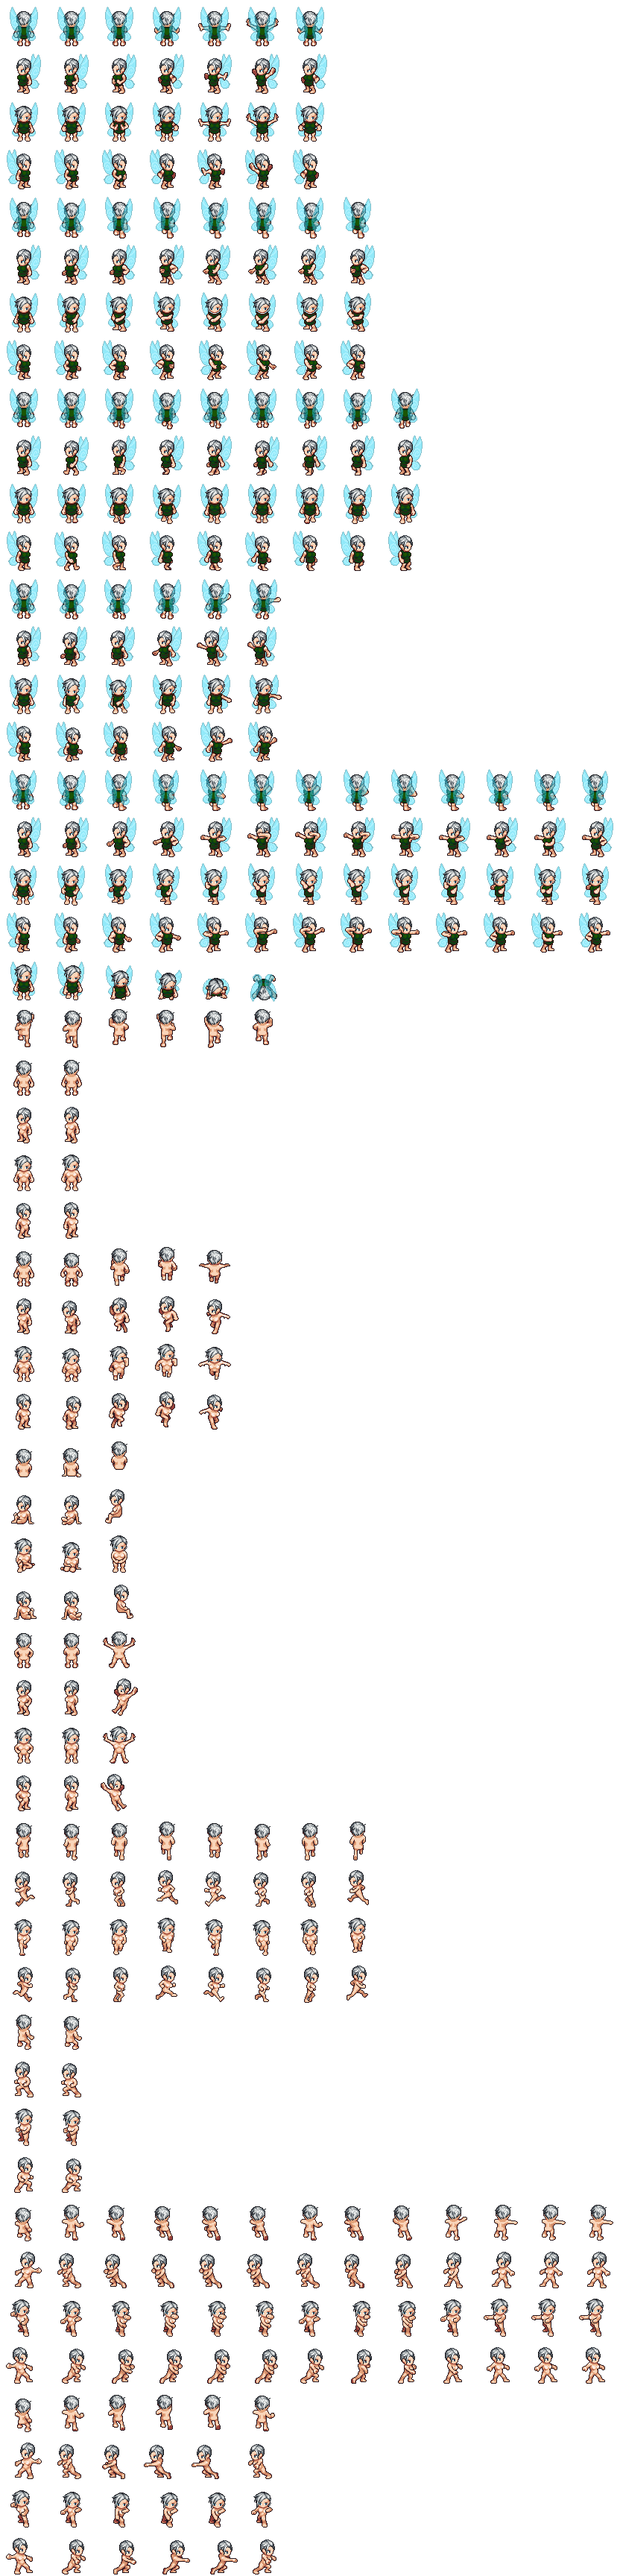
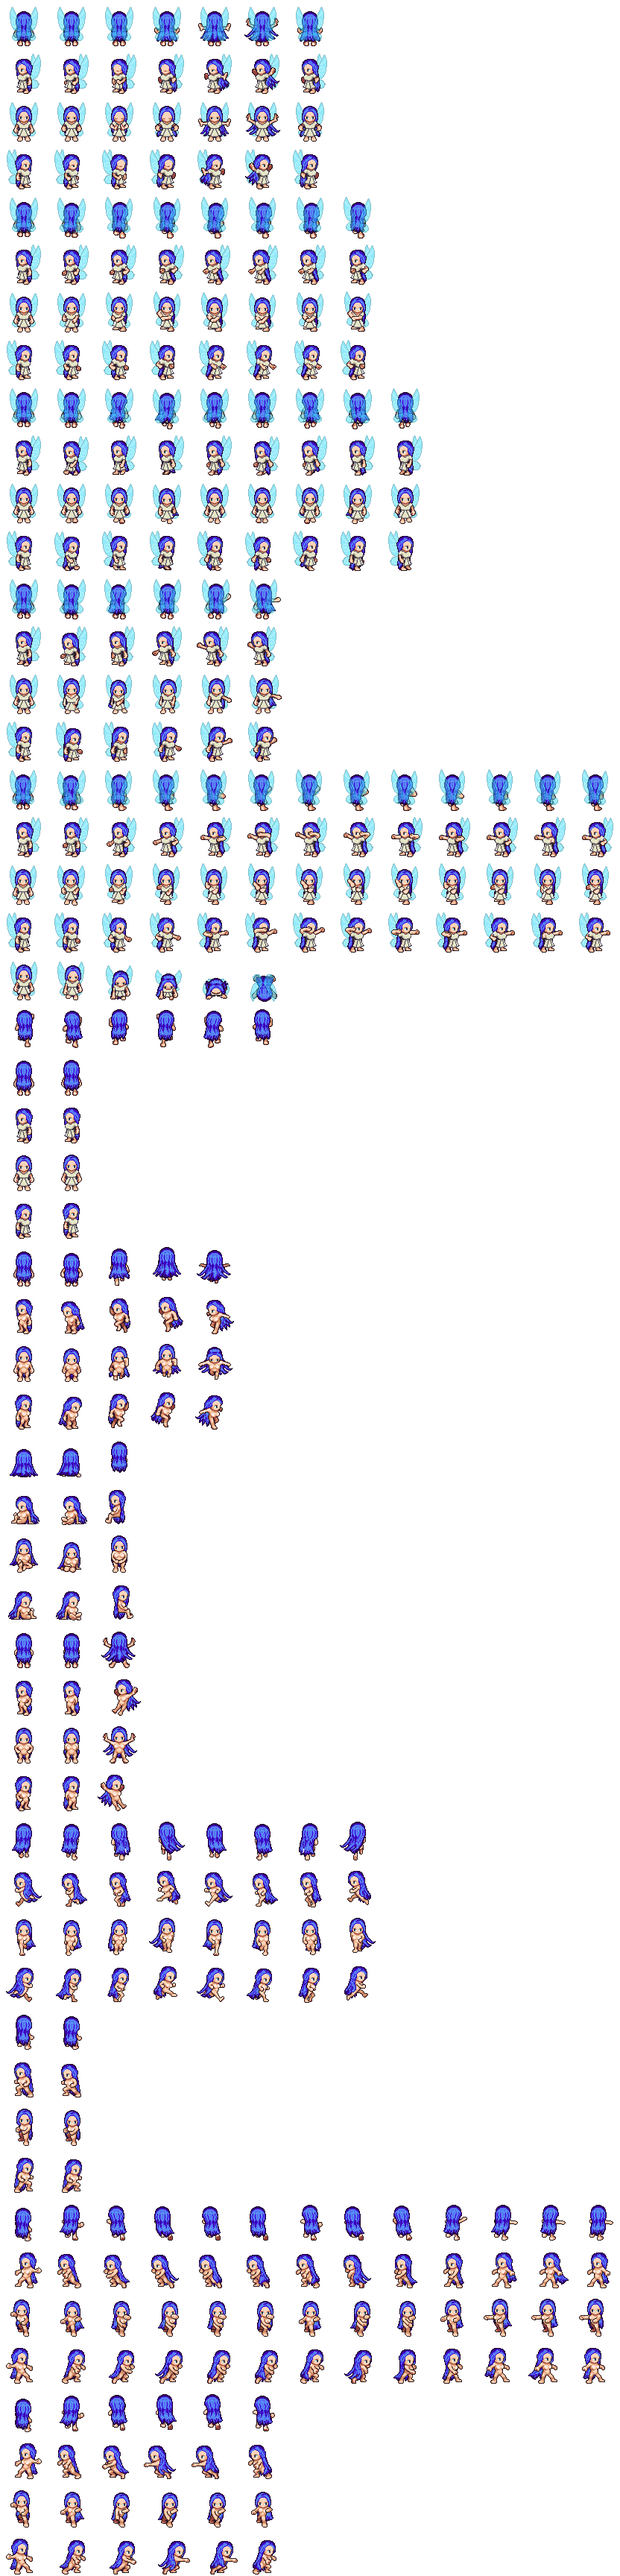
feat(art): restyle the mist fairy as an adult with long violet hair and a sash dress

diff --git a/tasks/reports/arte-monstros-fase-3.md b/tasks/reports/arte-monstros-fase-3.md
@@ -18,10 +18,10 @@ Cada link abre o [gerador Universal LPC](https://liberatedpixelcup.github.io/Uni
 | Sacerdote Morto | `dead_priest.png` | esqueleto (corpo feminino, o único com manto), manto preto, capuz preto, cajado simples | [abrir](https://liberatedpixelcup.github.io/Universal-LPC-Spritesheet-Character-Generator/#sex=female&body=Skeleton_white&head=Skeleton_white&clothes=Robe_black&hat=Hood_black&weapon=Simple_staff_simple) |
 | Vigia Sem Rosto (chefe) | `faceless_watcher.png` | esqueleto cinza, manto cinza-escuro, capuz carvão, máscara lisa branca (o "rosto vazio"), capa rasgada vinho | [abrir](https://liberatedpixelcup.github.io/Universal-LPC-Spritesheet-Character-Generator/#sex=female&body=Skeleton_gray&head=Skeleton_gray&clothes=Robe_dark%20gray&hat=Hood_charcoal&facial_mask=Plain_Mask_white&cape=Tattered_maroon) |
 | Sombra | `shade.png` | corpo preto, manto e capuz pretos, capa rasgada preta | [abrir](https://liberatedpixelcup.github.io/Universal-LPC-Spritesheet-Character-Generator/#sex=female&body=Body_Color_black&head=Human_Female_black&clothes=Robe_black&hat=Hood_black&cape=Tattered_black) |
-| Fada da Névoa | `mist_fairy.png` | corpo feminino claro, cabeça pequena, túnica verde-floresta, cabelo curto branco, asas de fada transparentes | [abrir](https://liberatedpixelcup.github.io/Universal-LPC-Spritesheet-Character-Generator/#sex=female&body=Body_Color_light&head=Human_Female_Small_light&clothes=Tunic_forest&hair=Pixie_white&wings=Transparent_Pixie_Wings_pixie) |
+| Fada da Névoa | `mist_fairy.png` | corpo feminino claro, cabeça feminina adulta, cabelo *XLong Wavy* violeta, vestido com faixa (*sash dress*) branco, asas de fada transparentes (versão "Violeta", escolhida pelo designer em 2026-11-06) | [abrir](https://liberatedpixelcup.github.io/Universal-LPC-Spritesheet-Character-Generator/#sex=female&body=Body_Color_light&head=Human_Female_light&hair=XLong_Wavy_violet&dress=Sash_dress_white&wings=Transparent_Pixie_Wings_pixie) |
 
 **Escolhas e alternativas testadas:**
-- **Fada:** o corpo infantil (menor, mais "fada") perde a roupa no golpe e no conjurar, porque essas peças só existem para o andar. Ficou o corpo adulto com cabeça pequena; o tamanho de fada vem do raio e do `tint`.
+- **Fada:** o corpo infantil perde a roupa no golpe e no conjurar. A primeira montagem (corpo adulto, cabeça pequena, cabelo curto) parecia uma menina; o designer pediu uma Fada mais mulher, e escolheu entre nove variações a cabeça adulta com cabelo *XLong Wavy* violeta e vestido com faixa branco. Todas as roupas testadas (túnica, regata, blusa, vestidos, quimono) aparecem no conjurar, no golpe e na morte.
 - **Sacerdote:** o cajado retorcido some no conjurar; o cajado simples (CC0) aparece no andar, no conjurar e na estocada.
 - **Sombra:** com o manto, ela fica parecida com o Sacerdote na folha. No jogo, o `tint` escuro e semitransparente a separa. Se o designer preferir, ela pode ser outro corpo (zumbi, por exemplo).
 - **Vigia:** a capa vinho e a máscara branca o separam do Sacerdote. Como chefe, ele usa escala ×2, como a Matriarca.
@@ -82,7 +82,7 @@ Depois da exportação, a variante `preview_fase3` do `sprites.json` troca monst
 
 ## Licenças
 
-Conferido nos CSVs exportados: as peças têm OGA-BY, CC-BY ou CC0 como opção, **exceto** o manto (*robe*, só CC-BY-SA 3.0 ou GPL; usado no Sacerdote, no Vigia e na Sombra), o escudo *kite* do Cavaleiro e o cabelo da Fada. As folhas com essas peças ficam em CC-BY-SA, o que não afeta o resto do jogo (`design/art-direction-v0.1.md`, licenças). Os créditos de cada folha estão em `client/assets/art/characters/<monstro>-credits.txt` e em `CREDITS.md`.
+Conferido nos CSVs exportados: as peças têm OGA-BY, CC-BY ou CC0 como opção, **exceto** o manto (*robe*, só CC-BY-SA 3.0 ou GPL; usado no Sacerdote, no Vigia e na Sombra), o escudo *kite* do Cavaleiro e o vestido com faixa da Fada (o cabelo *XLong Wavy* é OGA-BY 3.0). As folhas com essas peças ficam em CC-BY-SA, o que não afeta o resto do jogo (`design/art-direction-v0.1.md`, licenças). Os créditos de cada folha estão em `client/assets/art/characters/<monstro>-credits.txt` e em `CREDITS.md`.
 
 ## No jogo
 
@@ -91,7 +91,7 @@ As folhas do Cavaleiro, do Sacerdote, do Vigia e da Sombra estão ligadas no `sp
 | Encontro | Mostra | Captura |
 |---|---|---|
 | `encounter.wolf_and_bandit` | Cavaleiro Espectral (no lugar do Salteador), azulado e translúcido | ![](arte-monstros-fase-3/jogo-wolf_and_bandit.png) |
-| `encounter.wolf_and_bandit` (2026-11-06) | Fada da Névoa (no lugar do Lobo), clara e translúcida, ao lado do Cavaleiro | ![](arte-monstros-fase-3/jogo-wolf_and_bandit-fada.png) |
+| `encounter.wolf_and_bandit` (2026-11-06) | Fada da Névoa "Violeta" (no lugar do Lobo), clara e translúcida, ao lado do Cavaleiro | ![](arte-monstros-fase-3/jogo-wolf_and_bandit-fada.png) |
 | `encounter.skeleton_guard` | Sacerdote Morto (no lugar do Guarda) | ![](arte-monstros-fase-3/jogo-skeleton_guard.png) |
 | `encounter.four_rats` | Sombras (no lugar dos ratos), escuras e translúcidas | ![](arte-monstros-fase-3/jogo-four_rats.png) |
 | `encounter.forest_matriarch` | Vigia Sem Rosto em ×2 (no lugar da Matriarca) | ![](arte-monstros-fase-3/jogo-forest_matriarch.png) |
@@ -105,7 +105,7 @@ Godot_v4.7.2-stable_mono_win64.exe --path client res://scenes/Main.tscn -- --enc
 **Detalhes técnicos:**
 - A folha do Cavaleiro tem as armas grandes em quadros de 192 px (golpe, contragolpe e estocada), na mesma posição da maça do Clérigo, então ele usa `slash_192`.
 - O Godot importava os CSVs de créditos como traduções; eles foram salvos como `-credits.txt`, como os das classes.
-- A primeira exportação da Fada (`mist_fairy.png`) veio vazia, toda transparente. Foi reexportada em 2026-11-06 com a mesma montagem e agora tem todas as animações.
+- A primeira exportação da Fada (`mist_fairy.png`) veio vazia, toda transparente. Em 2026-11-06 ela foi reexportada e depois refeita na versão "Violeta".
 
 ## Pendências
 

diff --git a/CREDITS.md b/CREDITS.md
@@ -26,7 +26,7 @@ Licenças:
 | Tileset de construções (`buildings`): muros de tijolo, telhados, janelas, portas e placas | Eliza Wyatt (ElizaWy), Lanea Zimmerman (Sharm), Stephen Challener (Redshrike) e outros do LPC Revised; configurado para o Tiled por JaidynReiman | OGA-BY 3.0 | https://opengameart.org/content/lpc-revised-fully-configured-4-seasons-tilesets-for-tiled-map-editor | `client/assets/art/tiles/buildings.png` (`.tsx` em `data/maps/tilesets/`) | não |
 | Aranhas (`spider01`, `spider04`, `spider05`) | Stephen Challener (Redshrike), publicado por William.Thompsonj | OGA-BY 3.0 | https://opengameart.org/content/lpc-spider | `client/assets/art/monsters/spiders/` | não |
 | Guerreiro, Arqueiro, Mago, Clérigo, Salteador, Guarda Esquelético | vários artistas do LPC, peça a peça em `<personagem>-credits.txt` | por peça: OGA-BY 3.0 quando oferecida; CC-BY-SA 3.0 em peças do Guerreiro (corpo musculoso, cabelo, escudo), do Arqueiro (cabelo, arco) e do Mago (cabelo, sobrecasaca) | https://github.com/LiberatedPixelCup/Universal-LPC-Spritesheet-Character-Generator | `client/assets/art/characters/` | não (folhas exportadas do gerador, combinações no §7 de `design/art-direction-v0.1.md`) |
-| Cavaleiro Espectral, Sacerdote Morto, Vigia Sem Rosto, Sombra, Fada da Névoa (fase 3, T-056) | vários artistas do LPC, peça a peça em `<monstro>-credits.txt` | por peça: OGA-BY 3.0 quando oferecida; CC-BY-SA 3.0 no manto (*robe*: Sacerdote, Vigia, Sombra), no escudo *kite* (Cavaleiro) e no cabelo da Fada | https://github.com/LiberatedPixelCup/Universal-LPC-Spritesheet-Character-Generator | `client/assets/art/characters/` | não (folhas exportadas do gerador, montagens em `tasks/reports/arte-monstros-fase-3.md`) |
+| Cavaleiro Espectral, Sacerdote Morto, Vigia Sem Rosto, Sombra, Fada da Névoa (fase 3, T-056) | vários artistas do LPC, peça a peça em `<monstro>-credits.txt` | por peça: OGA-BY 3.0 quando oferecida; CC-BY-SA 3.0 no manto (*robe*: Sacerdote, Vigia, Sombra), no escudo *kite* (Cavaleiro) e no vestido da Fada | https://github.com/LiberatedPixelCup/Universal-LPC-Spritesheet-Character-Generator | `client/assets/art/characters/` | não (folhas exportadas do gerador, montagens em `tasks/reports/arte-monstros-fase-3.md`) |
 | Efeitos (`effects.png`): magia, veneno, chamas, eletricidade, congelamento, luz, golpe e tiro errado; a folha inteira foi incluída | Tuomo Untinen; caveira de Johannes Sjölund (Wulax) | CC-BY-SA 3.0 | https://opengameart.org/content/lpc-items-and-game-effects | `client/assets/art/effects/effects.png` (créditos em `effects-credits.txt`) | não |
 | Escudo de gelo (`magic_iceshield.png`) | Daniel Eddeland (daneeklu) | CC-BY-SA 3.0 | https://opengameart.org/content/lpc-farming-tilesets-magic-animations-and-ui-elements | `client/assets/art/effects/magic_iceshield.png` (créditos em `magic_iceshield-credits.txt`) | não (arquivo renomeado de `magic_iceshield_sheet.png`) |
 | Ícones de habilidades, itens e atributos (`icons.png`): 54 ícones do pacote *496 pixel art icons for medieval/fantasy RPG* | Henrique Lazarini (7Soul1), enviado por gnola14 | [CC0 1.0](https://creativecommons.org/publicdomain/zero/1.0/) (crédito não exigido; registrado por cortesia) | https://opengameart.org/content/496-pixel-art-icons-for-medievalfantasy-rpg | `client/assets/art/icons/icons.png` (créditos em `icons-credits.txt`; arquivo de origem de cada ícone em `icons.json`) | não (só reunidos numa folha, 34×34 px) |
